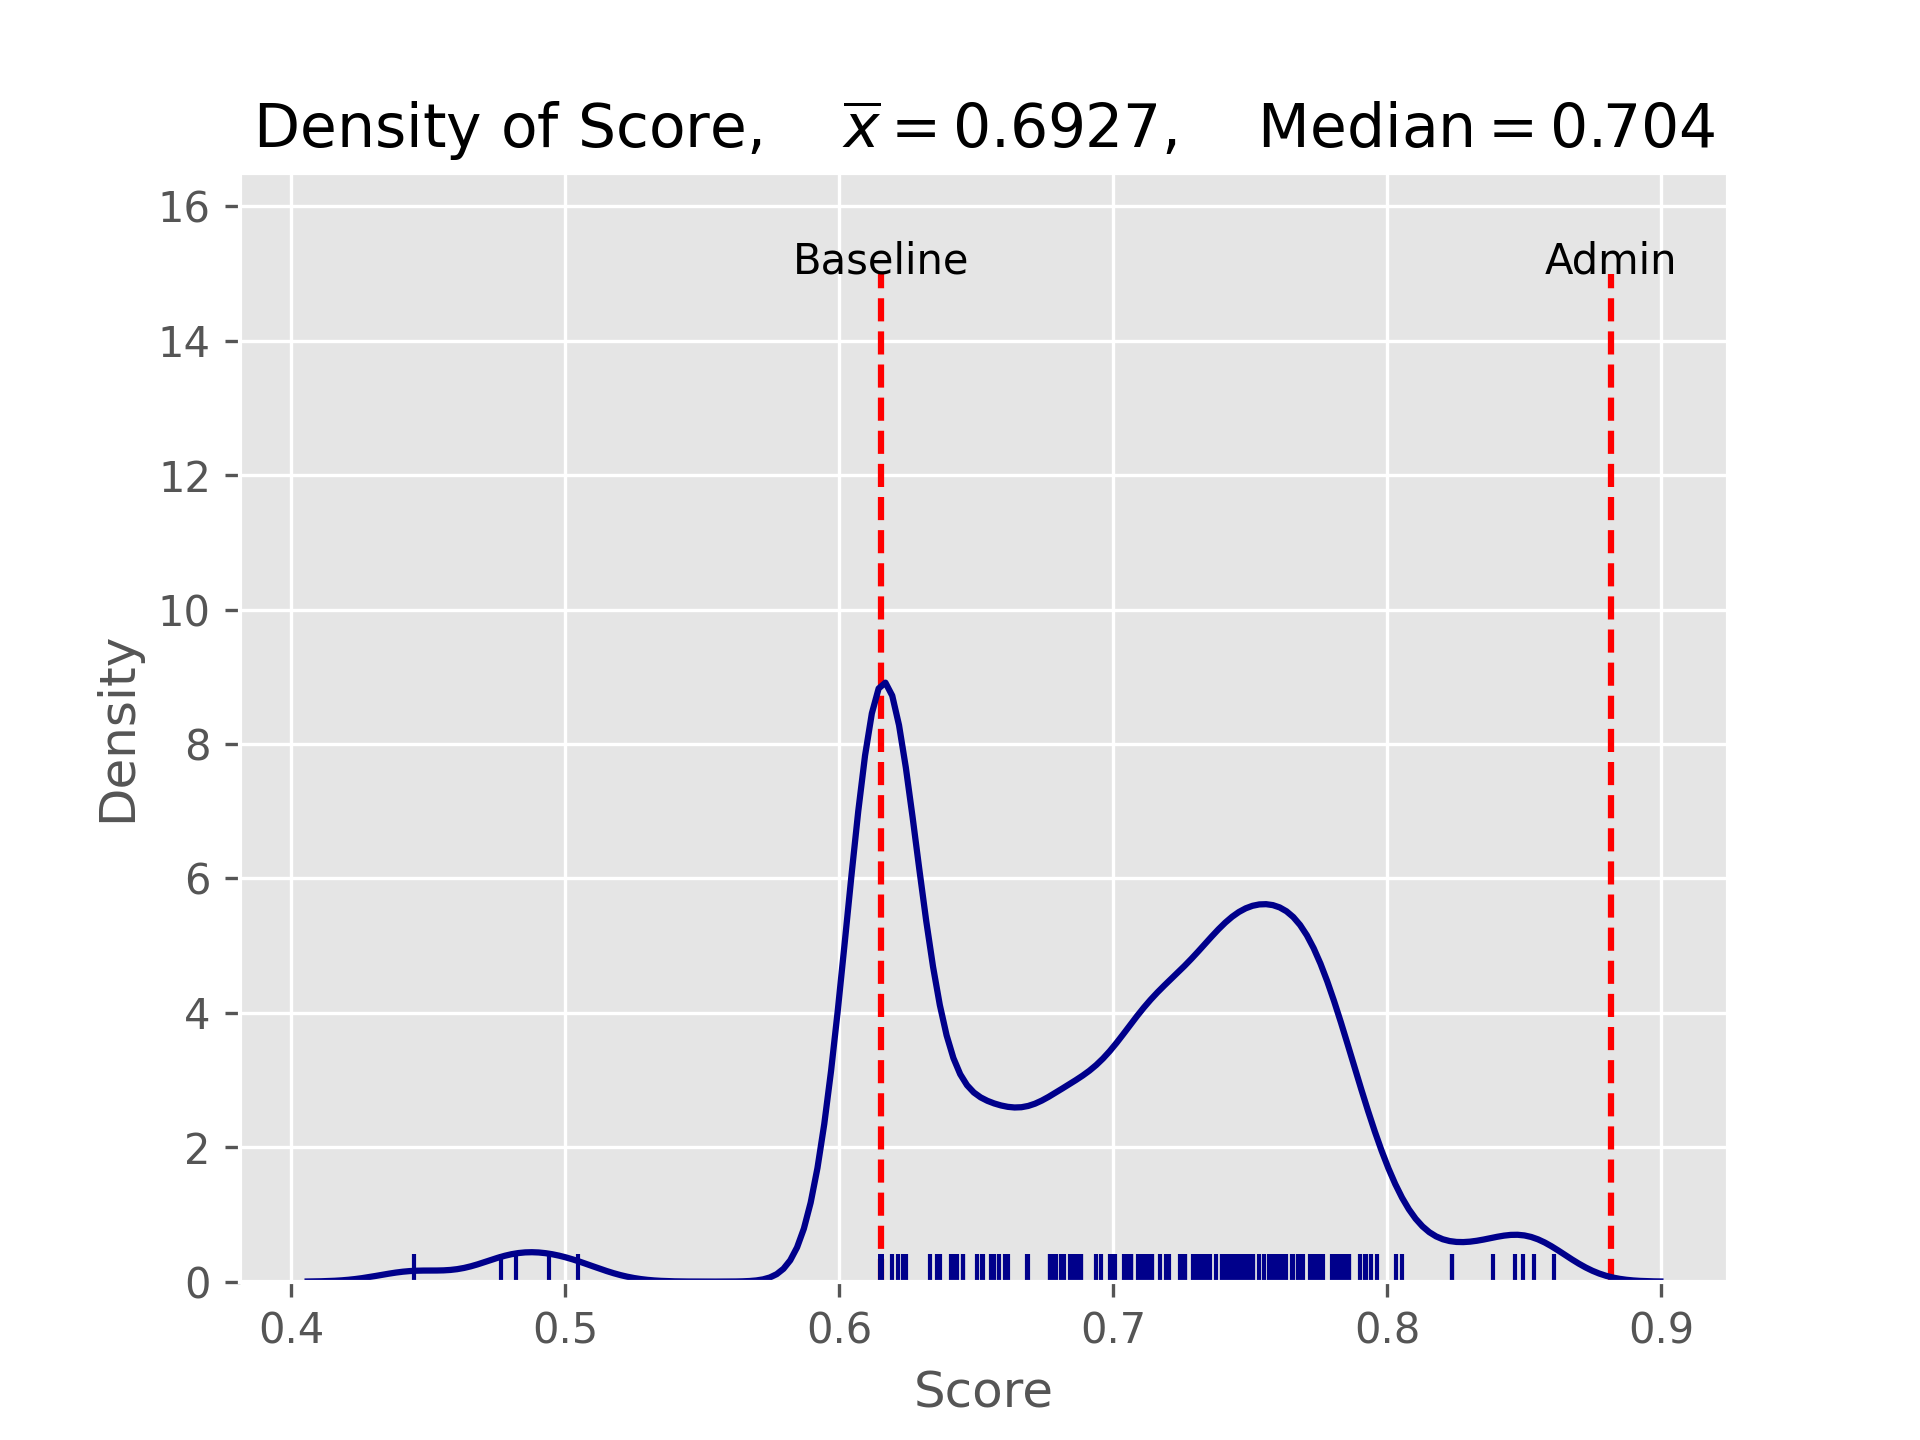
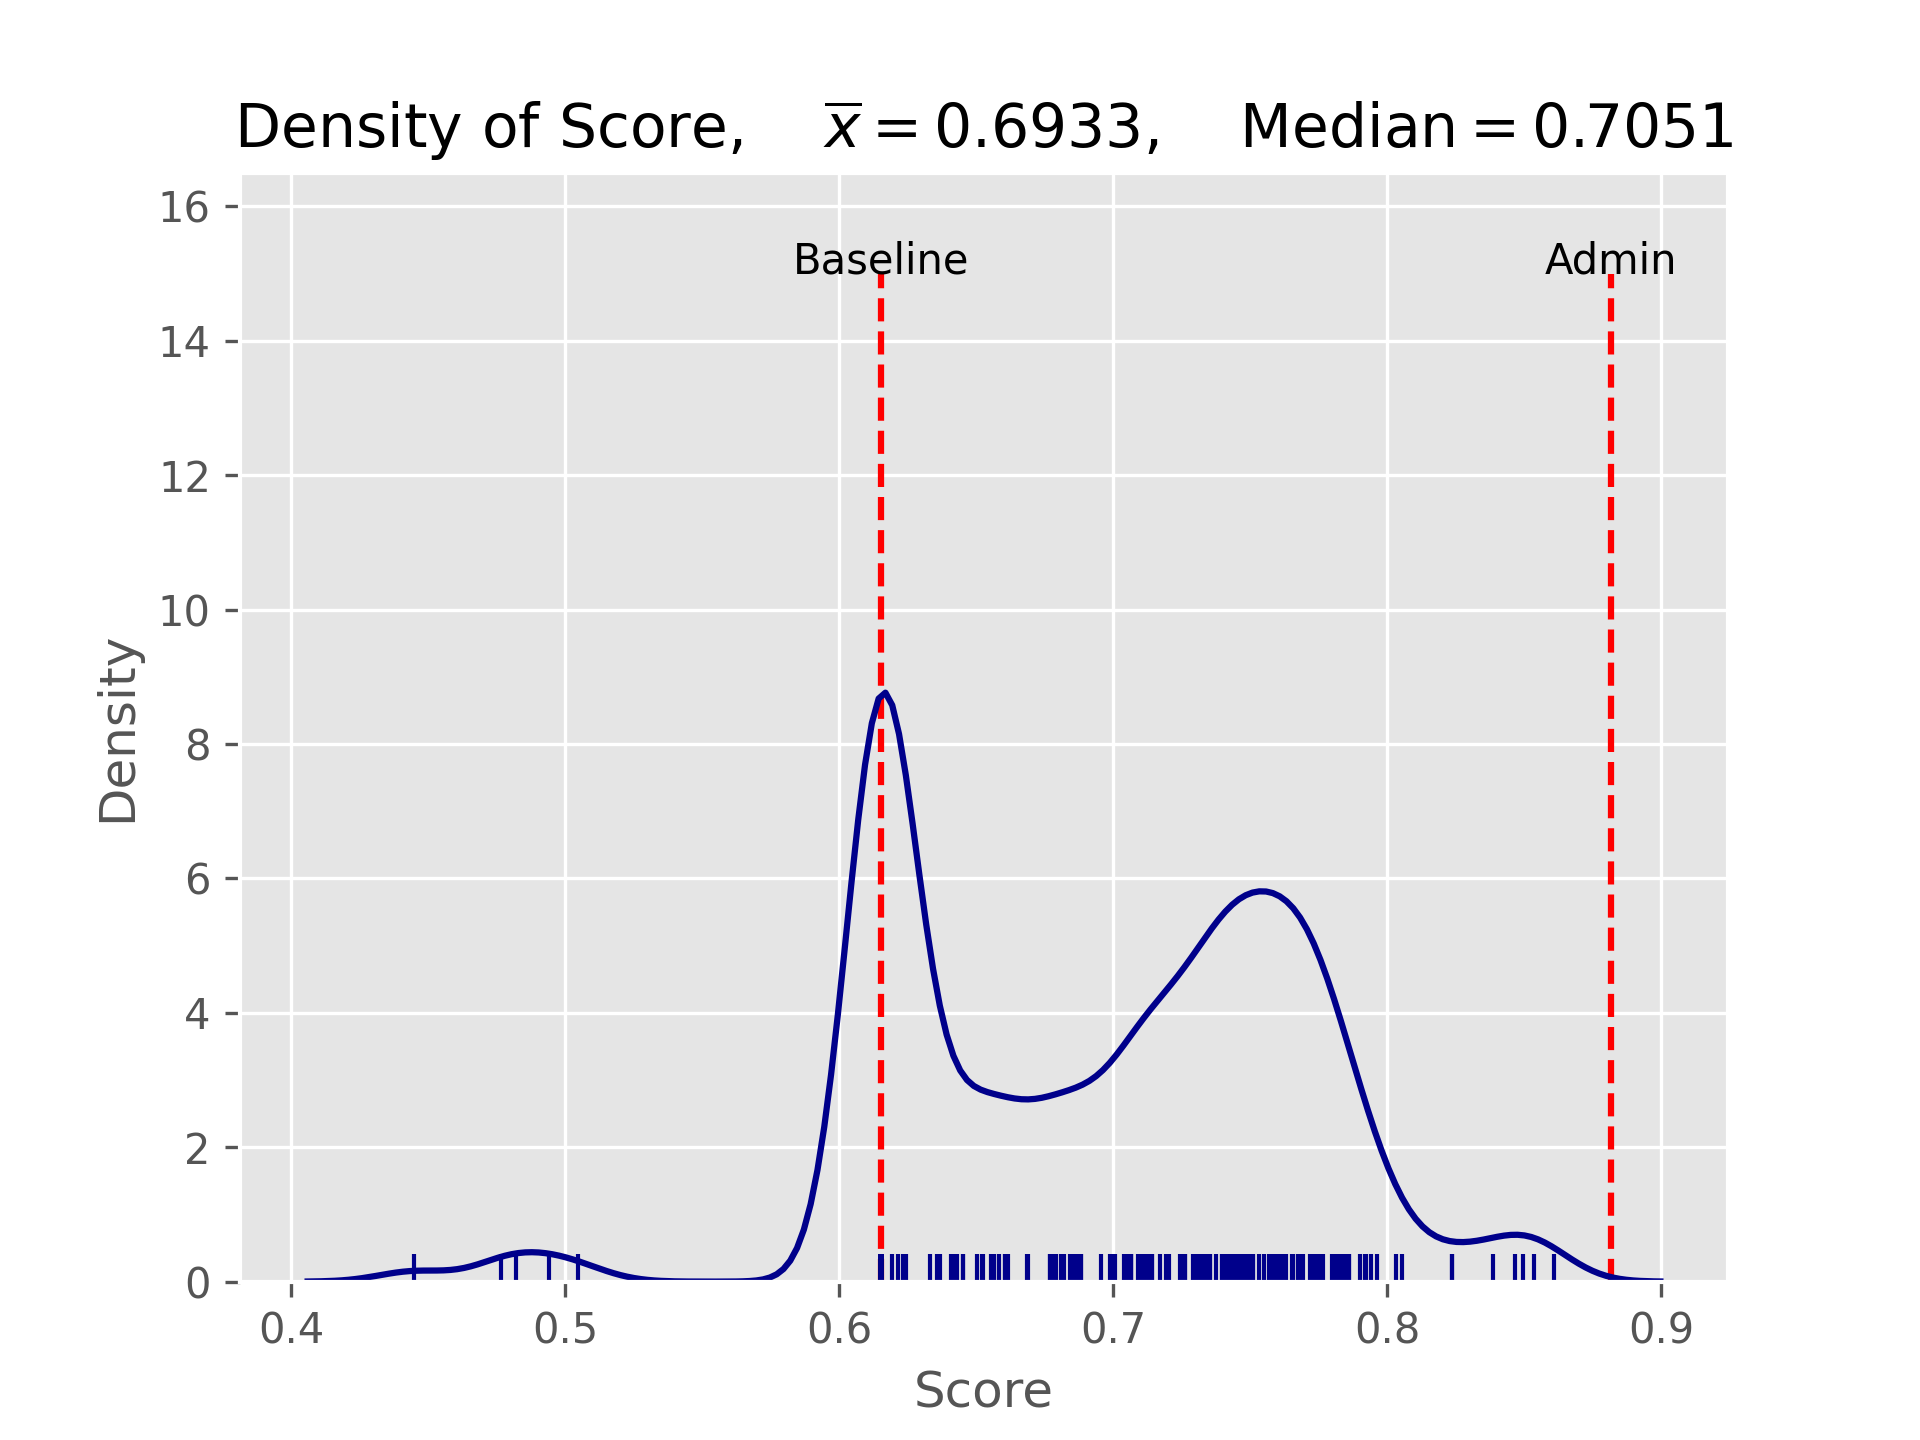
Updated: 2021-05-17 14:27:07

diff --git a/README.md b/README.md
@@ -1,6 +1,6 @@
 # ETC3250 Kaggle score
 
-**Last updated: May 17, 2021 13:10:07**
+**Last updated: May 17, 2021 14:27:07**
 
 ## WARNING: Your final grade is based on your score on the `private leaderboard`. 
 
@@ -29,7 +29,7 @@ Number of teams: 205
 |7|6754129|ghan0002|16 May 15:42:02|0.82342|13|
 |8|6754828|mwjon5|15 May 18:05:18|0.80531|13|
 |9|6749705|zxio0011|16 May 10:09:25|0.80305|13|
-|10|6757633|lbao0008|17 May 13:02:53|0.79626|12|
+|10|6757633|lbao0008|17 May 13:10:21|0.79626|12|
 |11|6750698|yjia0021|16 May 19:17:41|0.79400|12|
 |12|6761625|Le-Hao Jian|16 May 22:16:10|0.79230|12|
 |13|6763983|Jpan0029|16 May 22:28:56|0.79173|12|
@@ -59,75 +59,75 @@ Number of teams: 205
 |37|6759088|skhu0008|15 May 21:39:18|0.76740|11|
 |38|6755482|dche0021|15 May 18:39:06|0.76570|11|
 |39|6749892|Zhongzheng Zhang|16 May 17:34:04|0.76513|11|
-|40|6759838|xwuu0061|16 May 14:49:12|0.76287|11|
+|40|6759838|xwuu0061|17 May 13:57:23|0.76287|11|
 |41|6754021|ntry0001|17 May 11:19:42|0.76230|11|
 |42|6755781|vwid06|17 May 05:08:33|0.76174|11|
 |43|6753842|Anqi Luo|16 May 22:56:31|0.76117|11|
 |44|6755448|jwan0296|16 May 18:52:06|0.76061|11|
-|45|6759326|Emily Sheehan|17 May 12:47:56|0.76061|11|
+|45|6759326|Emily Sheehan|17 May 13:32:11|0.76061|11|
 |46|6749366|xwan0160|16 May 23:33:43|0.75891|11|
 |47|6751334|yzha0275|17 May 12:19:36|0.75834|11|
 |48|6750247|Kevin Tat17|16 May 17:59:48|0.75721|11|
-|49|6754693|xwan0169|14 May 09:20:24|0.75664|11|
-|50|6758694|nhee0002|16 May 20:21:14|0.75495|11|
-|51|6768666|jham0020|16 May 23:44:06|0.75325|11|
-|52|6754314|Alexi Tsakis|16 May 14:55:24|0.75099|11|
-|53|6764345|yliu0320|16 May 19:42:52|0.75099|11|
-|54|6750774|yhua0047|15 May 15:45:06|0.74985|11|
-|55|6759731|Daniel Ong|17 May 03:07:00|0.74985|11|
-|56|6758777|Gayani Amali Balasuriya|17 May 12:29:32|0.74872|11|
-|57|6768072|Jkan0025|16 May 15:50:00|0.74872|11|
-|58|6754556|sami0006|16 May 16:22:20|0.74759|11|
-|59|6750485|Zhongxuan Yin|13 May 14:53:31|0.74646|11|
-|60|6760317|Wliu0044|17 May 00:56:27|0.74646|11|
-|61|6765326|ywan0454|12 May 02:49:19|0.74533|11|
-|62|6764575|jngu0046|16 May 12:45:55|0.74533|11|
-|63|6749461|mkar0012|16 May 14:43:07|0.74476|11|
-|64|6751520|mluk0004|16 May 23:04:27|0.74363|11|
-|65|6783780|mshi0014|16 May 21:53:55|0.74306|11|
-|66|6756740|psap0002|16 May 17:43:14|0.74193|11|
-|67|6755109|Dea Avega Editya|17 May 10:44:40|0.74136|11|
-|68|6760740|qwan0060|15 May 00:05:05|0.74080|11|
-|69|6753832|hmaus1|16 May 20:47:42|0.73967|11|
-|70|6749310|rtia0007|16 May 10:40:06|0.73967|11|
-|71|6768276|Alex Chou|16 May 00:41:42|0.73740|10|
-|72|6761498|qche0022|16 May 23:16:53|0.73514|10|
-|73|6753638|nper0009|17 May 10:02:16|0.73457|10|
-|74|6750514|wwin0001|14 May 23:41:39|0.73401|10|
-|75|6756315|Qin Zhou 29287170|16 May 22:48:52|0.73288|10|
-|76|6750992|Qimei Yang|16 May 17:28:56|0.73174|10|
-|77|6750996|Lirui Guo|16 May 17:10:31|0.73174|10|
-|78|6749287|rwon0005|16 May 22:14:18|0.73005|10|
-|79|6767433|ang0004|16 May 10:36:26|0.72948|10|
-|80|6760878|Oblong|14 May 09:53:00|0.72891|10|
-|81|6765541|wtan0001|16 May 15:08:01|0.72608|10|
-|82|6750421|sche0149|16 May 15:36:49|0.72608|10|
-|83|6763455|Ziyue Zhang|15 May 00:26:27|0.72552|10|
-|84|6768117|avon0005|16 May 12:57:45|0.72439|10|
-|85|6753551|dorl0002|17 May 01:10:08|0.72043|10|
-|86|6749457|Belgian Pharmacist|16 May 10:09:22|0.71986|10|
-|87|6753813|yzha0633|17 May 10:44:39|0.71986|10|
-|88|6749490|fwan0018|15 May 10:03:02|0.71986|10|
-|89|6754894|dama0007|17 May 10:02:36|0.71929|10|
-|90|6754678|Ronghao Zhang|14 May 11:34:12|0.71703|10|
-|91|6751234|Guy H Davis|14 May 10:57:28|0.71420|10|
-|92|6751598|hfen27|14 May 13:11:44|0.71420|10|
-|93|6749351|jche0254|16 May 23:10:23|0.71307|10|
-|94|6763958|berob5|15 May 18:21:09|0.71194|10|
-|95|6767603|jfer0020|11 May 19:09:43|0.71080|10|
-|96|6767902|wfer0009|16 May 19:33:58|0.71024|10|
-|97|6755522|casco2|15 May 12:16:36|0.71024|10|
-|98|6767378|Arzu Khanna|15 May 17:49:23|0.70911|10|
-|99|6766000|Langtian Cheng|16 May 23:21:37|0.70628|10|
-|100|6762123|Siddhant Tirodkar|17 May 01:26:32|0.70628|10|
-|101|6762269|Priya Dingorkar|17 May 00:20:39|0.70628|10|
-|102|6761828|Ying Zou95|16 May 14:21:41|0.70514|10|
-|103|6760555|zzha0230|16 May 22:41:15|0.70401|10|
-|104|6762592|xyan0048|16 May 17:47:05|0.70062|10|
-|105|6756942|jtho0048|15 May 19:58:12|0.70005|10|
-|106|6762119|Evelyn Budhy Wibowo|15 May 17:22:32|0.69892|10|
-|107|6765299|zyliu16|17 May 00:57:32|0.69552|10|
-|108|6749412|Monchy|16 May 13:50:11|0.69383|10|
+|49|6749412|Monchy|17 May 13:30:49|0.75721|11|
+|50|6754693|xwan0169|14 May 09:20:24|0.75664|11|
+|51|6758694|nhee0002|16 May 20:21:14|0.75495|11|
+|52|6768666|jham0020|16 May 23:44:06|0.75325|11|
+|53|6754314|Alexi Tsakis|17 May 13:59:33|0.75099|11|
+|54|6764345|yliu0320|16 May 19:42:52|0.75099|11|
+|55|6750774|yhua0047|15 May 15:45:06|0.74985|11|
+|56|6759731|Daniel Ong|17 May 03:07:00|0.74985|11|
+|57|6758777|Gayani Amali Balasuriya|17 May 12:29:32|0.74872|11|
+|58|6768072|Jkan0025|16 May 15:50:00|0.74872|11|
+|59|6754556|sami0006|16 May 16:22:20|0.74759|11|
+|60|6750485|Zhongxuan Yin|13 May 14:53:31|0.74646|11|
+|61|6760317|Wliu0044|17 May 00:56:27|0.74646|11|
+|62|6765326|ywan0454|12 May 02:49:19|0.74533|11|
+|63|6764575|jngu0046|16 May 12:45:55|0.74533|11|
+|64|6749461|mkar0012|16 May 14:43:07|0.74476|11|
+|65|6751520|mluk0004|16 May 23:04:27|0.74363|11|
+|66|6783780|mshi0014|16 May 21:53:55|0.74306|11|
+|67|6756740|psap0002|16 May 17:43:14|0.74193|11|
+|68|6755109|Dea Avega Editya|17 May 10:44:40|0.74136|11|
+|69|6760740|qwan0060|15 May 00:05:05|0.74080|11|
+|70|6753832|hmaus1|16 May 20:47:42|0.73967|11|
+|71|6749310|rtia0007|16 May 10:40:06|0.73967|11|
+|72|6768276|Alex Chou|16 May 00:41:42|0.73740|10|
+|73|6761498|qche0022|16 May 23:16:53|0.73514|10|
+|74|6749457|Belgian Pharmacist|17 May 13:37:42|0.73514|10|
+|75|6753638|nper0009|17 May 10:02:16|0.73457|10|
+|76|6750514|wwin0001|14 May 23:41:39|0.73401|10|
+|77|6756315|Qin Zhou 29287170|16 May 22:48:52|0.73288|10|
+|78|6750992|Qimei Yang|16 May 17:28:56|0.73174|10|
+|79|6750996|Lirui Guo|16 May 17:10:31|0.73174|10|
+|80|6749287|rwon0005|16 May 22:14:18|0.73005|10|
+|81|6767433|ang0004|16 May 10:36:26|0.72948|10|
+|82|6760878|Oblong|14 May 09:53:00|0.72891|10|
+|83|6765541|wtan0001|16 May 15:08:01|0.72608|10|
+|84|6750421|sche0149|16 May 15:36:49|0.72608|10|
+|85|6763455|Ziyue Zhang|15 May 00:26:27|0.72552|10|
+|86|6768117|avon0005|16 May 12:57:45|0.72439|10|
+|87|6753551|dorl0002|17 May 01:10:08|0.72043|10|
+|88|6753813|yzha0633|17 May 10:44:39|0.71986|10|
+|89|6749490|fwan0018|15 May 10:03:02|0.71986|10|
+|90|6754894|dama0007|17 May 10:02:36|0.71929|10|
+|91|6754678|Ronghao Zhang|14 May 11:34:12|0.71703|10|
+|92|6751234|Guy H Davis|14 May 10:57:28|0.71420|10|
+|93|6751598|hfen27|14 May 13:11:44|0.71420|10|
+|94|6749351|jche0254|16 May 23:10:23|0.71307|10|
+|95|6763958|berob5|15 May 18:21:09|0.71194|10|
+|96|6767603|jfer0020|11 May 19:09:43|0.71080|10|
+|97|6767902|wfer0009|16 May 19:33:58|0.71024|10|
+|98|6755522|casco2|15 May 12:16:36|0.71024|10|
+|99|6767378|Arzu Khanna|15 May 17:49:23|0.70911|10|
+|100|6766000|Langtian Cheng|16 May 23:21:37|0.70628|10|
+|101|6762123|Siddhant Tirodkar|17 May 01:26:32|0.70628|10|
+|102|6762269|Priya Dingorkar|17 May 00:20:39|0.70628|10|
+|103|6761828|Ying Zou95|16 May 14:21:41|0.70514|10|
+|104|6760555|zzha0230|16 May 22:41:15|0.70401|10|
+|105|6762592|xyan0048|16 May 17:47:05|0.70062|10|
+|106|6756942|jtho0048|15 May 19:58:12|0.70005|10|
+|107|6762119|Evelyn Budhy Wibowo|15 May 17:22:32|0.69892|10|
+|108|6765299|zyliu16|17 May 00:57:32|0.69552|10|
 |109|6782531|jraw0002|16 May 17:04:01|0.68817|10|
 |110|6760529|maam0001|15 May 18:33:08|0.68817|10|
 |111|6768279|Thomas Winson|16 May 15:41:58|0.68704|10|
@@ -135,88 +135,88 @@ Number of teams: 205
 |113|6753792|Angelina Atanassova|17 May 12:28:44|0.68534|10|
 |114|6750103|heva0001|17 May 00:33:52|0.68421|10|
 |115|6759061|Abin John|16 May 18:23:39|0.68194|10|
-|116|6763905|xliu0026|14 May 21:21:37|0.68081|10|
-|117|6762192|abab0012|16 May 16:04:00|0.67911|10|
+|116|6763905|xliu0026|17 May 14:07:18|0.68081|10|
+|117|6762192|abab0012|17 May 13:27:43|0.67911|10|
 |118|6753670|Tran Thanh Han Ha|09 May 18:38:25|0.67798|10|
 |119|6761343|dgar0010|17 May 12:12:09|0.67741|10|
 |120|6749822|John Yan|13 May 22:09:17|0.67685|9|
 |121|6807769|stupid assignment|17 May 02:08:23|0.67685|9|
 |122|6753817|JiaPeng0106|10 May 13:28:44|0.66893|9|
 |123|6805182|zzy0023|16 May 17:21:26|0.66836|9|
-|124|6758921|Zhijun Li/zlii0231|16 May 14:07:39|0.66157|9|
+|124|6758921|Zhijun Li/zlii0231|17 May 14:12:25|0.66157|9|
 |125|6775741|blen0004|13 May 14:26:10|0.66100|8|
 |126|6765060|khyd0001|15 May 21:09:15|0.66044|8|
-|127|6765741|bwen0003|14 May 01:20:38|0.65817|8|
-|128|6767860|ylii0273|16 May 22:02:38|0.65647|8|
-|129|6765463|lwan0125|15 May 23:55:43|0.65647|8|
-|130|6800064|Thuy Tran LINH|15 May 16:13:51|0.65534|<=7|
-|131|6763613|ofon0002|15 May 16:38:24|0.65251|<=7|
-|132|6761203|ajai0024|17 May 00:15:27|0.65195|<=7|
-|133|6763638|heva0003|17 May 12:41:40|0.65025|<=7|
-|134|6764503|Yu Zhou|16 May 00:00:03|0.64516|<=7|
-|135|6766440|Chenjie Gong|17 May 12:51:02|0.64516|<=7|
-|136|6761697|azad0001|16 May 13:04:03|0.64289|<=7|
-|137|6757039|phun0001|14 May 10:23:12|0.64176|<=7|
-|138|6759274|Dwayne Pinto|17 May 13:05:50|0.64119|<=7|
-|139|6765312|mqas0003|15 May 19:30:07|0.64063|<=7|
-|140|6768141|Don_Eggsaladsanga|16 May 22:32:34|0.63667|<=7|
-|141|6760382|jlee0179|16 May 13:31:23|0.63554|<=7|
-|142|6756441|jwij0001|17 May 11:50:17|0.63327|<=7|
-|143|6755591|ltmoo2|16 May 13:20:05|0.62422|<=7|
-|144|6770339|Jonathan Alexandro|16 May 22:50:02|0.62308|<=7|
-|145|6754085|Tomer Fridland|16 May 16:55:49|0.62139|<=7|
-|146|6756086|akha0059|16 May 20:47:01|0.61912|<=7|
-|147|6738627|predictions_2021-05-04.csv|04 May 17:42:25|0.61516|<=7|
-|148|6750168|Ruimin Lin|12 May 18:34:34|0.61516|<=7|
-|149|6750648|[Deleted] a1fcae29-177c-495d-be3e-ecb1d2e418e1|06 May 20:32:47|0.61516|<=7|
-|150|6751310|Cpen0009|16 May 01:16:05|0.61516|<=7|
-|151|6753687|Juliette101|16 May 13:51:41|0.61516|<=7|
-|152|6754262|Namrata Goel|07 May 13:16:59|0.61516|<=7|
-|153|6754439|cyee0011|17 May 12:50:07|0.61516|<=7|
-|154|6754610|dvek0001|17 May 10:59:09|0.61516|<=7|
-|155|6754890|ctin0006|07 May 17:54:53|0.61516|<=7|
-|156|6756637|lqia0006|17 May 03:06:04|0.61516|<=7|
-|157|6758582|Vinny Vu|17 May 13:08:46|0.61516|<=7|
-|158|6758766|hhen0005|08 May 10:49:43|0.61516|<=7|
-|159|6758855|MKitchener_Monash|08 May 11:34:04|0.61516|<=7|
-|160|6759272|Suyue|08 May 13:38:52|0.61516|<=7|
-|161|6759596|monash_jpea0010|08 May 15:43:01|0.61516|<=7|
-|162|6760487|Junze Zeng|08 May 18:39:04|0.61516|<=7|
-|163|6760974|ZipingLeow|13 May 02:51:53|0.61516|<=7|
-|164|6761427|byeo0005|08 May 22:13:26|0.61516|<=7|
-|165|6761422|Wenxuan Gong|08 May 22:16:50|0.61516|<=7|
-|166|6761842|mort0001|08 May 23:53:24|0.61516|<=7|
-|167|6749288|dpha0015|16 May 23:39:15|0.61516|<=7|
-|168|6762642|rals0003|15 May 23:50:53|0.61516|<=7|
-|169|6763027|panagiotis stylianos|09 May 07:03:18|0.61516|<=7|
-|170|6760102|Yuheng Cui|09 May 13:49:20|0.61516|<=7|
-|171|6753957|Matthew Willaton|17 May 11:00:18|0.61516|<=7|
-|172|6764303|fpso0001|16 May 20:39:33|0.61516|<=7|
-|173|6756077|walh0002|16 May 17:38:54|0.61516|<=7|
-|174|6765323|alim0045|09 May 21:35:25|0.61516|<=7|
-|175|6755993|jluu0047|16 May 21:36:25|0.61516|<=7|
-|176|6765399|ymia21|09 May 22:04:28|0.61516|<=7|
-|177|6765339|jgra0012|09 May 22:08:13|0.61516|<=7|
-|178|6766356|shua0076|10 May 01:50:18|0.61516|<=7|
-|179|6766419|Tong Qiu|10 May 02:16:31|0.61516|<=7|
-|180|6766065|jluo0015|10 May 02:32:47|0.61516|<=7|
-|181|6766581|pjiw0001|10 May 03:10:23|0.61516|<=7|
-|182|6749849|ymaa0063|10 May 04:25:13|0.61516|<=7|
-|183|6754254|uwas0001|13 May 09:38:21|0.61516|<=7|
-|184|6765494|bdon0004|10 May 12:31:27|0.61516|<=7|
-|185|6767829|SYJ_King|15 May 23:43:23|0.61516|<=7|
-|186|6768046|asei0003|16 May 20:32:31|0.61516|<=7|
-|187|6768108|jgre0006|10 May 13:53:07|0.61516|<=7|
-|188|6755755|Tze Hin Chang|10 May 14:40:11|0.61516|<=7|
-|189|6768540|bzha0014|11 May 11:02:58|0.61516|<=7|
-|190|6768582|ague0004|10 May 15:25:01|0.61516|<=7|
+|127|6768582|ague0004|17 May 14:17:58|0.66044|8|
+|128|6765741|bwen0003|14 May 01:20:38|0.65817|8|
+|129|6767860|ylii0273|16 May 22:02:38|0.65647|8|
+|130|6765463|lwan0125|15 May 23:55:43|0.65647|8|
+|131|6800064|Thuy Tran LINH|15 May 16:13:51|0.65534|<=7|
+|132|6763613|ofon0002|15 May 16:38:24|0.65251|<=7|
+|133|6761203|ajai0024|17 May 00:15:27|0.65195|<=7|
+|134|6763638|heva0003|17 May 12:41:40|0.65025|<=7|
+|135|6764503|Yu Zhou|16 May 00:00:03|0.64516|<=7|
+|136|6766440|Chenjie Gong|17 May 12:51:02|0.64516|<=7|
+|137|6761697|azad0001|16 May 13:04:03|0.64289|<=7|
+|138|6757039|phun0001|14 May 10:23:12|0.64176|<=7|
+|139|6759274|Dwayne Pinto|17 May 13:05:50|0.64119|<=7|
+|140|6765312|mqas0003|15 May 19:30:07|0.64063|<=7|
+|141|6768141|Don_Eggsaladsanga|16 May 22:32:34|0.63667|<=7|
+|142|6760382|jlee0179|16 May 13:31:23|0.63554|<=7|
+|143|6756441|jwij0001|17 May 11:50:17|0.63327|<=7|
+|144|6755591|ltmoo2|16 May 13:20:05|0.62422|<=7|
+|145|6770339|Jonathan Alexandro|16 May 22:50:02|0.62308|<=7|
+|146|6754085|Tomer Fridland|16 May 16:55:49|0.62139|<=7|
+|147|6756086|akha0059|16 May 20:47:01|0.61912|<=7|
+|148|6738627|predictions_2021-05-04.csv|04 May 17:42:25|0.61516|<=7|
+|149|6750168|Ruimin Lin|12 May 18:34:34|0.61516|<=7|
+|150|6750648|[Deleted] a1fcae29-177c-495d-be3e-ecb1d2e418e1|06 May 20:32:47|0.61516|<=7|
+|151|6751310|Cpen0009|16 May 01:16:05|0.61516|<=7|
+|152|6753687|Juliette101|16 May 13:51:41|0.61516|<=7|
+|153|6754262|Namrata Goel|07 May 13:16:59|0.61516|<=7|
+|154|6754439|cyee0011|17 May 12:50:07|0.61516|<=7|
+|155|6754610|dvek0001|17 May 10:59:09|0.61516|<=7|
+|156|6754890|ctin0006|07 May 17:54:53|0.61516|<=7|
+|157|6756637|lqia0006|17 May 03:06:04|0.61516|<=7|
+|158|6758582|Vinny Vu|17 May 13:10:24|0.61516|<=7|
+|159|6758766|hhen0005|08 May 10:49:43|0.61516|<=7|
+|160|6758855|MKitchener_Monash|08 May 11:34:04|0.61516|<=7|
+|161|6759272|Suyue|08 May 13:38:52|0.61516|<=7|
+|162|6759596|monash_jpea0010|08 May 15:43:01|0.61516|<=7|
+|163|6760487|Junze Zeng|08 May 18:39:04|0.61516|<=7|
+|164|6760974|ZipingLeow|13 May 02:51:53|0.61516|<=7|
+|165|6761427|byeo0005|08 May 22:13:26|0.61516|<=7|
+|166|6761422|Wenxuan Gong|08 May 22:16:50|0.61516|<=7|
+|167|6761842|mort0001|08 May 23:53:24|0.61516|<=7|
+|168|6749288|dpha0015|16 May 23:39:15|0.61516|<=7|
+|169|6762642|rals0003|15 May 23:50:53|0.61516|<=7|
+|170|6763027|panagiotis stylianos|09 May 07:03:18|0.61516|<=7|
+|171|6760102|Yuheng Cui|09 May 13:49:20|0.61516|<=7|
+|172|6753957|Matthew Willaton|17 May 11:00:18|0.61516|<=7|
+|173|6764303|fpso0001|16 May 20:39:33|0.61516|<=7|
+|174|6756077|walh0002|16 May 17:38:54|0.61516|<=7|
+|175|6765323|alim0045|09 May 21:35:25|0.61516|<=7|
+|176|6755993|jluu0047|16 May 21:36:25|0.61516|<=7|
+|177|6765399|ymia21|09 May 22:04:28|0.61516|<=7|
+|178|6765339|jgra0012|09 May 22:08:13|0.61516|<=7|
+|179|6766356|shua0076|10 May 01:50:18|0.61516|<=7|
+|180|6766419|Tong Qiu|10 May 02:16:31|0.61516|<=7|
+|181|6766065|jluo0015|10 May 02:32:47|0.61516|<=7|
+|182|6766581|pjiw0001|10 May 03:10:23|0.61516|<=7|
+|183|6749849|ymaa0063|10 May 04:25:13|0.61516|<=7|
+|184|6754254|uwas0001|13 May 09:38:21|0.61516|<=7|
+|185|6765494|bdon0004|10 May 12:31:27|0.61516|<=7|
+|186|6767829|SYJ_King|15 May 23:43:23|0.61516|<=7|
+|187|6768046|asei0003|16 May 20:32:31|0.61516|<=7|
+|188|6768108|jgre0006|10 May 13:53:07|0.61516|<=7|
+|189|6755755|Tze Hin Chang|10 May 14:40:11|0.61516|<=7|
+|190|6768540|bzha0014|11 May 11:02:58|0.61516|<=7|
 |191|6768590|bhua0008|10 May 15:25:13|0.61516|<=7|
 |192|6766670|rlai0004|17 May 03:30:04|0.61516|<=7|
 |193|6768901|blaw0002|11 May 10:45:22|0.61516|<=7|
 |194|6765496|Abhishek Sinha|12 May 23:24:07|0.61516|<=7|
 |195|6768988|emaa0001|10 May 17:02:23|0.61516|<=7|
 |196|6768060|ylok0006|14 May 00:02:26|0.61516|<=7|
-|197|6769593|Shu To Yeung|10 May 19:09:59|0.61516|<=7|
+|197|6769593|Shu To Yeung|17 May 13:32:46|0.61516|<=7|
 |198|6749474|Thomas Crowe|15 May 23:35:10|0.61516|<=7|
 |199|6770619|MingKaiToh|15 May 00:00:37|0.61516|<=7|
 |200|6760476|ang0005|16 May 09:50:29|0.61516|<=7|
